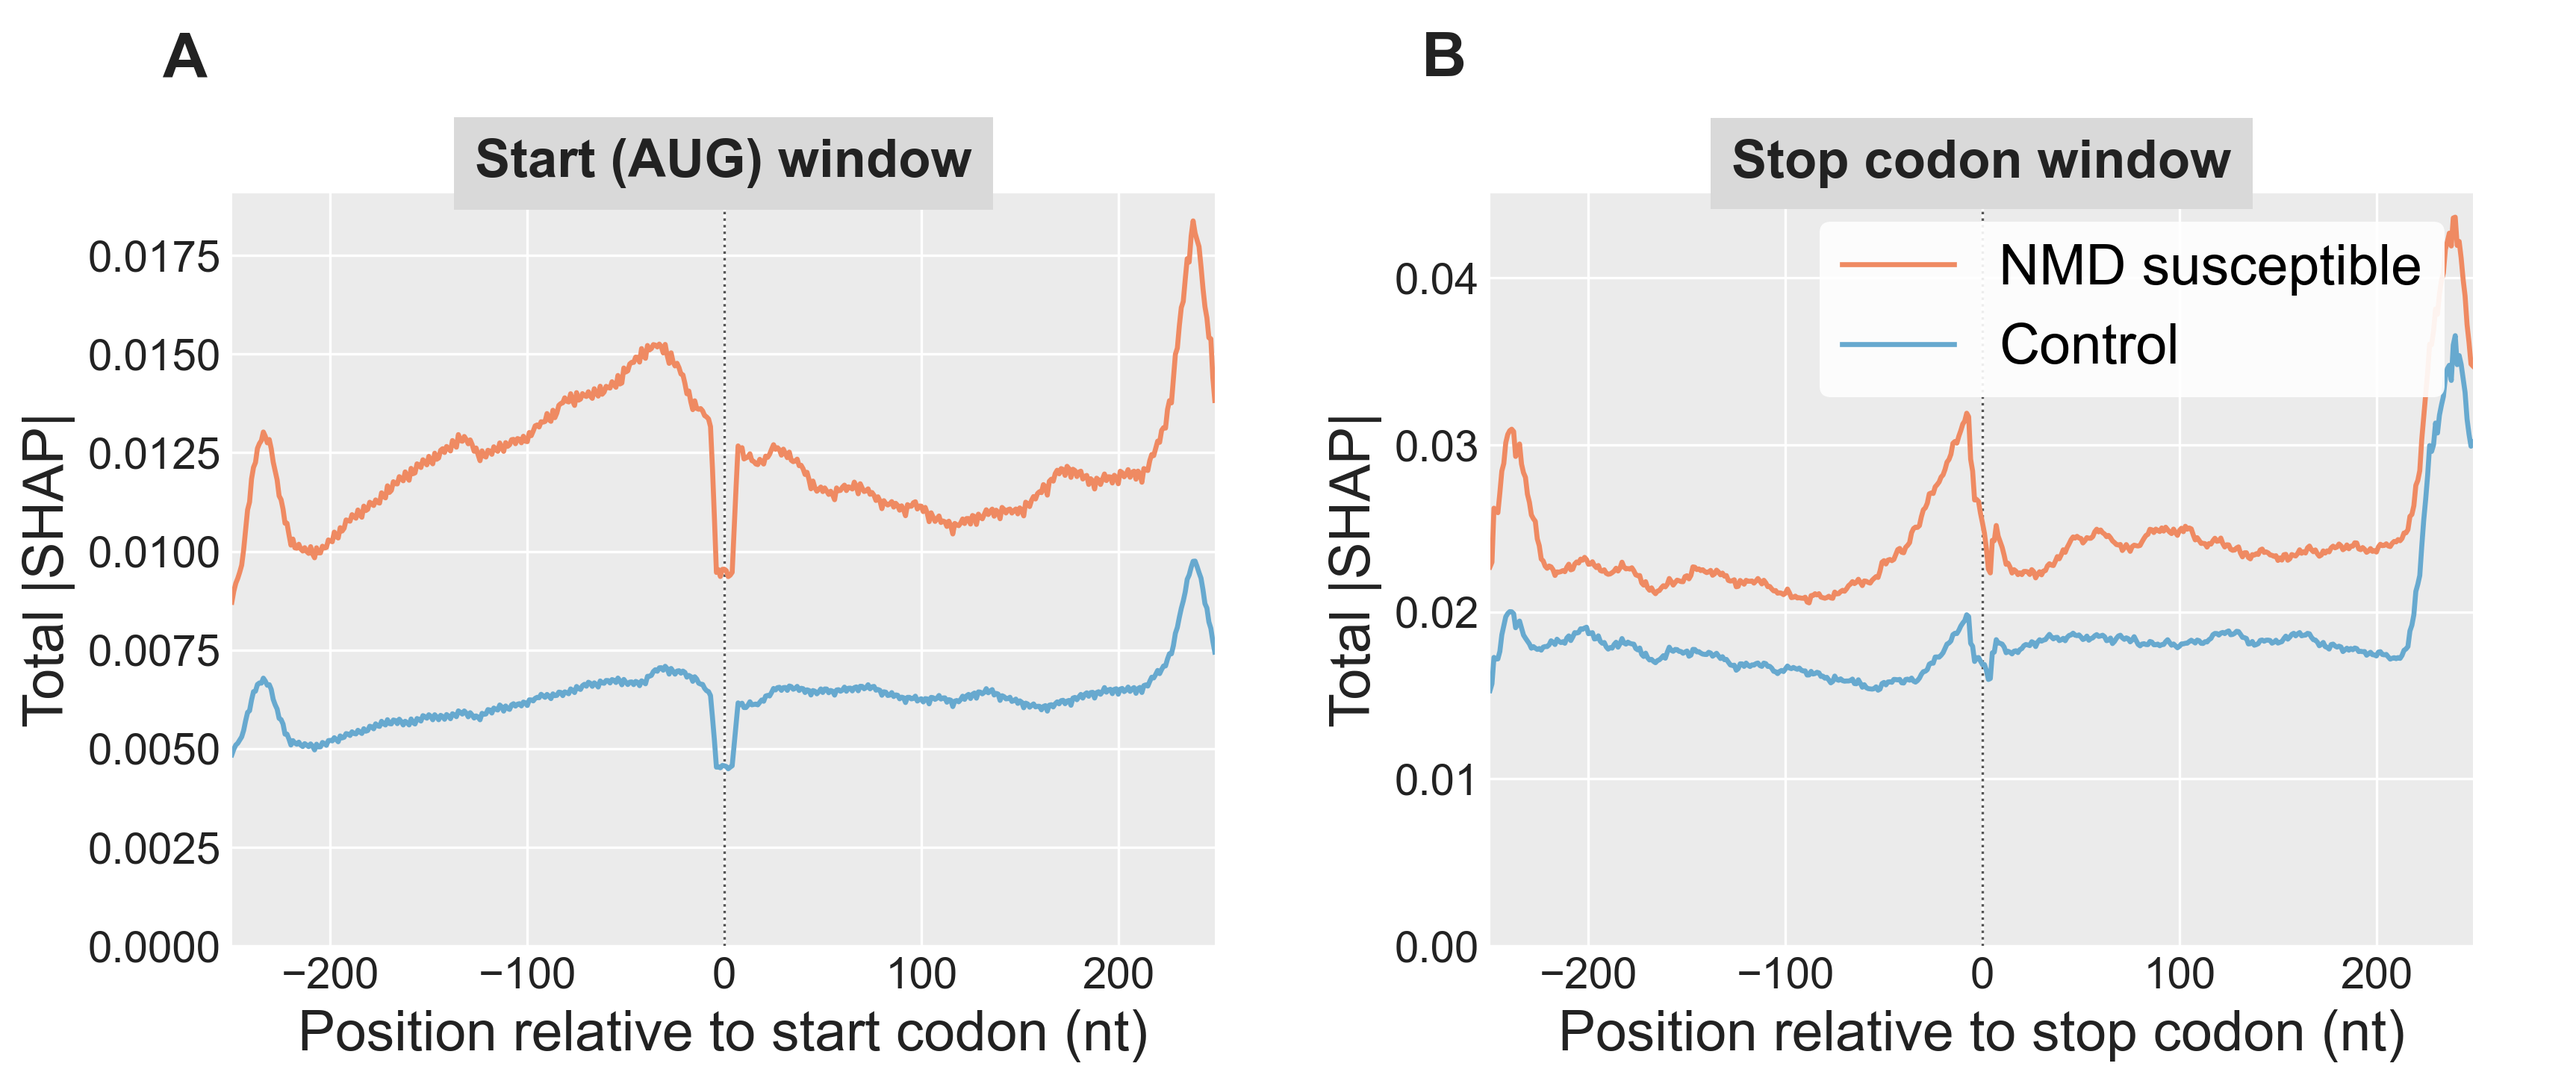
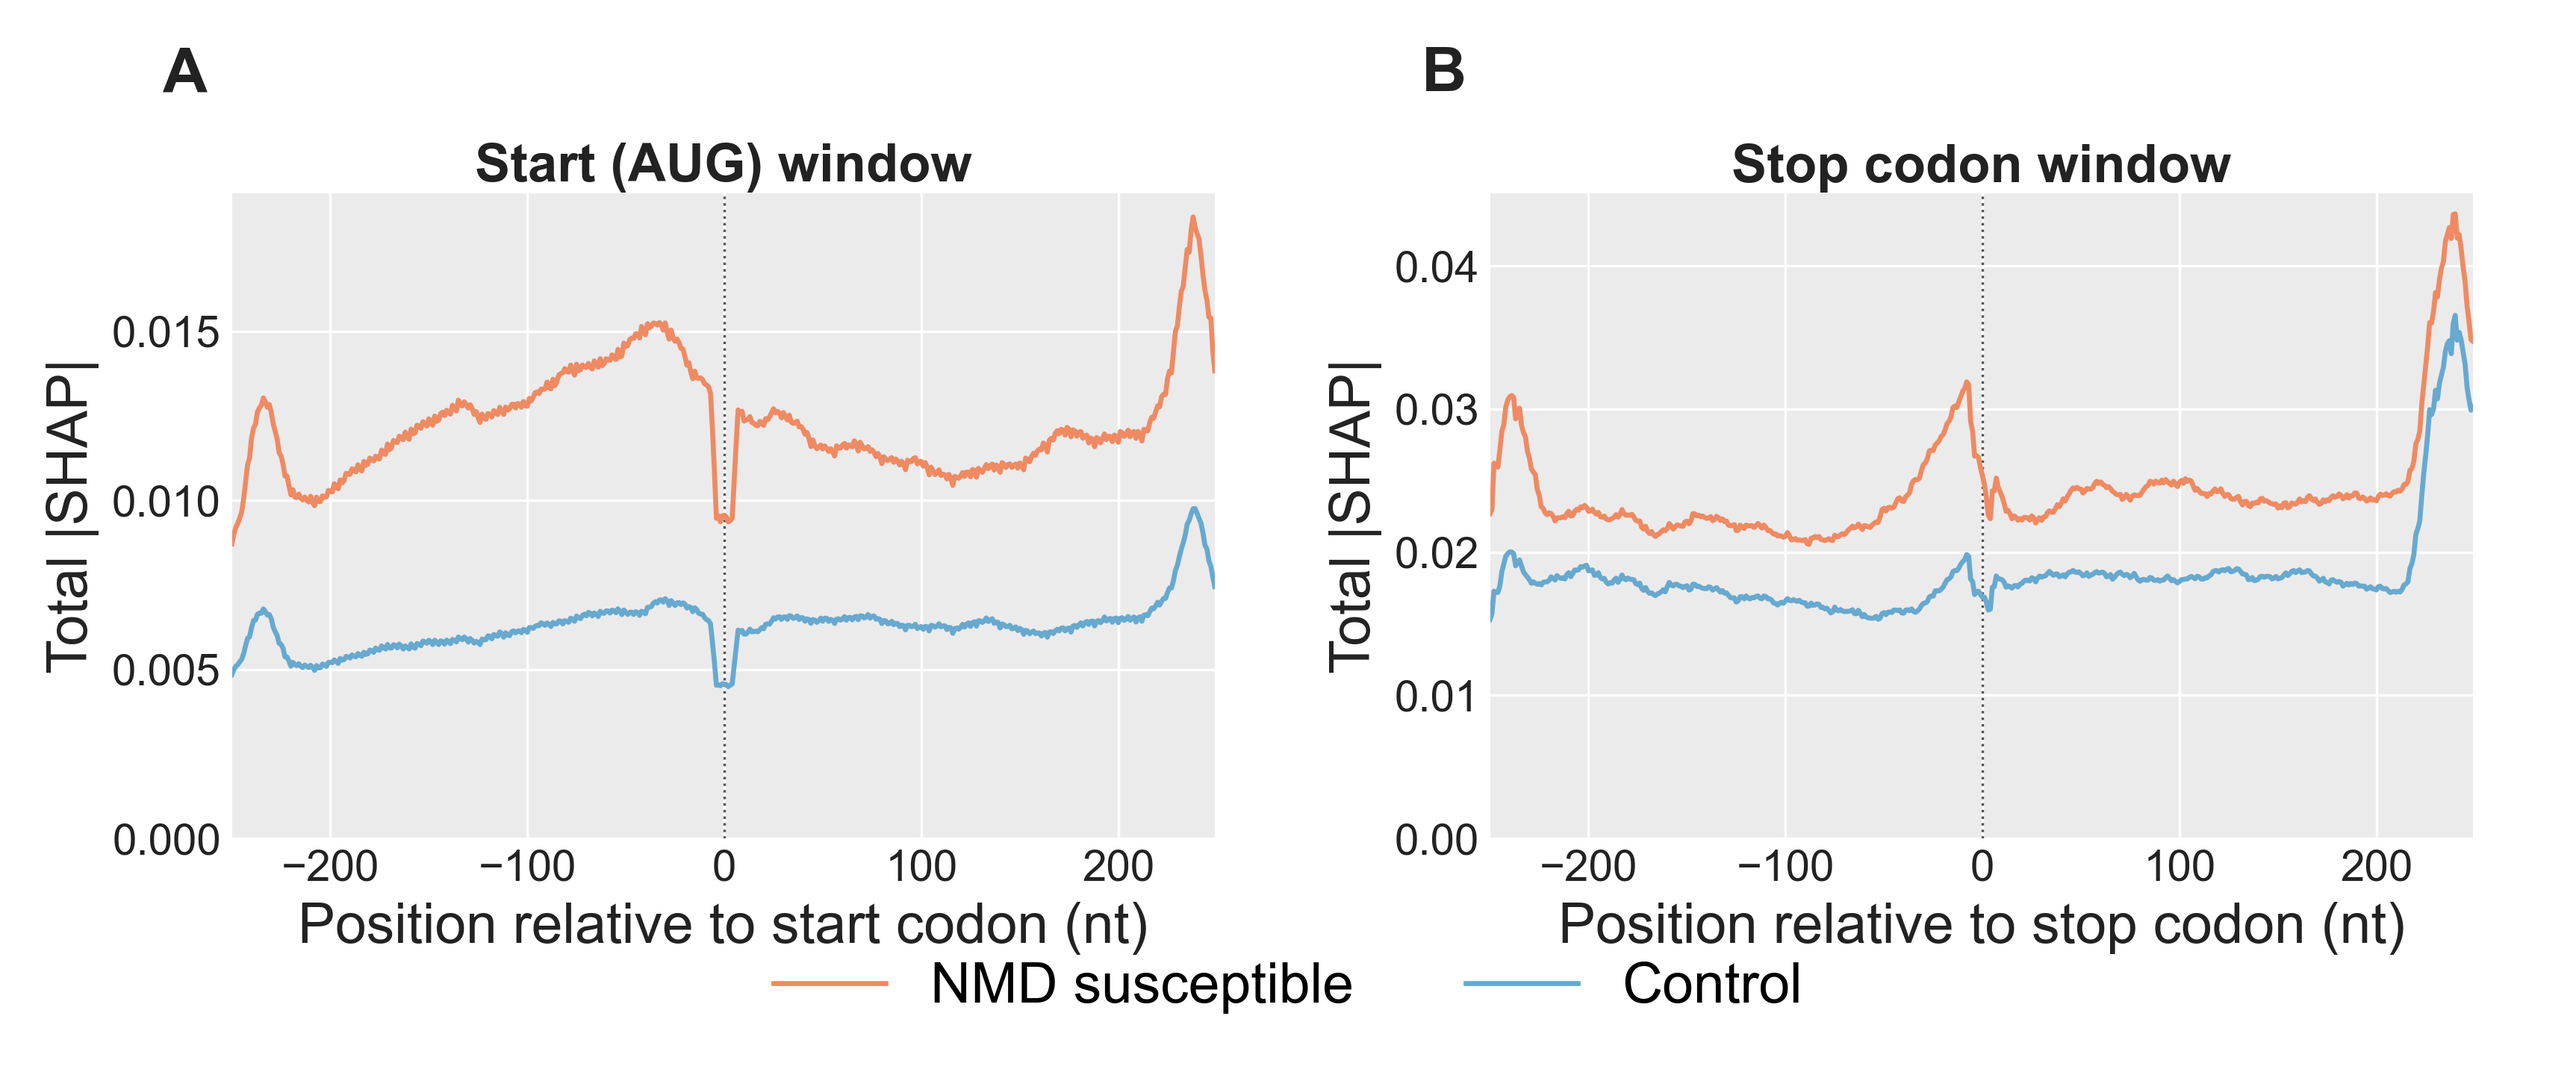
SF36: plain bold panel headers (drop gray facet strip) + external legend
- facet_header() renders plain bold text, no gray STRIP_BG box (shared
  helper; also affects SF39/SF41)
- SF36 legend -> shared figure-level legend in the bottom margin; the |SHAP|
  curves fill both panels so an in-panel legend can't clear the data
  (resolves the B3 assert_legend_clear residual)

diff --git a/figures/lib/ggplot_style.py b/figures/lib/ggplot_style.py
@@ -8,7 +8,7 @@ The three functions to call from a panel script:
   - `apply_ggplot_rcparams()` at import time to set font + fonttype.
   - `style_axes_ggplot(ax)` inside the panel render, right after building
     the axes. Applies the grey panel background and white gridlines.
-  - `facet_header(ax, text)` to place a ggplot-style grey-strip header
+  - `facet_header(ax, text)` to place a plain bold panel header
     above an axes (matches the "AT2 / LAE / FB / MV" strip you see in
     SF1, SF3, SF19, SF22, etc.).
 
@@ -402,15 +402,11 @@ def style_axes_ggplot(ax, *, xgrid=True, ygrid=True, minor=False):
 
 
 def facet_header(ax, text, *, height=0.06):
-    """Place a ggplot-style facet strip header above an axes.
+    """Place a panel header above an axes as plain bold text.
 
-    Draws a grey rectangle sitting on top of the axes with `text` in
-    bold black — mimics the strip labels you see above each facet in
-    SF1 / SF3 / SF19 (e.g., "AT2", "LAE", "FB", "MV").
-
-    `height` is the strip height in axes-relative coordinates
-    (fraction of the plot area). Default 0.06 works for cells around
-    2 inches tall; increase for bigger cells.
+    Renders `text` in bold above the axes with no background box (the
+    old grey strip read as clutter). `height` sets the header's vertical
+    offset above the axes in axes-relative coordinates.
     """
     ax.text(
         0.5, 1.0 + height / 2,
@@ -420,11 +416,6 @@ def facet_header(ax, text, *, height=0.06):
         fontsize=HEADER_FS - 1,
         fontweight="bold",
         color=TITLE_C,
-        bbox=dict(
-            facecolor=STRIP_BG,
-            edgecolor="none",
-            boxstyle="square,pad=0.4",
-        ),
     )
 
 

diff --git a/figures/SupplementalFigures/SF36_ShapAcrossWindows/figure_sf36_shap_across_windows.py b/figures/SupplementalFigures/SF36_ShapAcrossWindows/figure_sf36_shap_across_windows.py
@@ -78,7 +78,7 @@ def main():
     stop = load_window("stop")
 
     fig, axes = plt.subplots(1, 2, figsize=(NATIVE_W, 4.8))
-    fig.subplots_adjust(left=0.09, right=0.96, top=0.82, bottom=0.12, wspace=0.28)
+    fig.subplots_adjust(left=0.09, right=0.96, top=0.82, bottom=0.22, wspace=0.28)
 
     draw_panel(axes[0], atg, codon_label="start codon")
     draw_panel(axes[1], stop, codon_label="stop codon")
@@ -89,9 +89,12 @@ def main():
     panel_letter(axes[0], "A", x=-0.07, y=1.14)
     panel_letter(axes[1], "B", x=-0.07, y=1.14)
 
-    # Legend in the top-right of the second panel
-    axes[1].legend(loc="upper right", frameon=True, framealpha=0.9,
-                    edgecolor="none", facecolor="white", fontsize=BODY_FS)
+    # Shared legend in the bottom margin — the |SHAP| curves fill both
+    # panels, so an in-panel legend can't clear the data; both panels share
+    # the same two series, so one figure-level legend below is cleaner.
+    handles, labels = axes[0].get_legend_handles_labels()
+    fig.legend(handles, labels, loc="lower center", ncol=2, frameon=False,
+               fontsize=BODY_FS, bbox_to_anchor=(0.5, 0.01))
 
     # Facet headers extend past the axis edges by design — the per-axis
     # text-vs-spine check fires a false positive on them.
